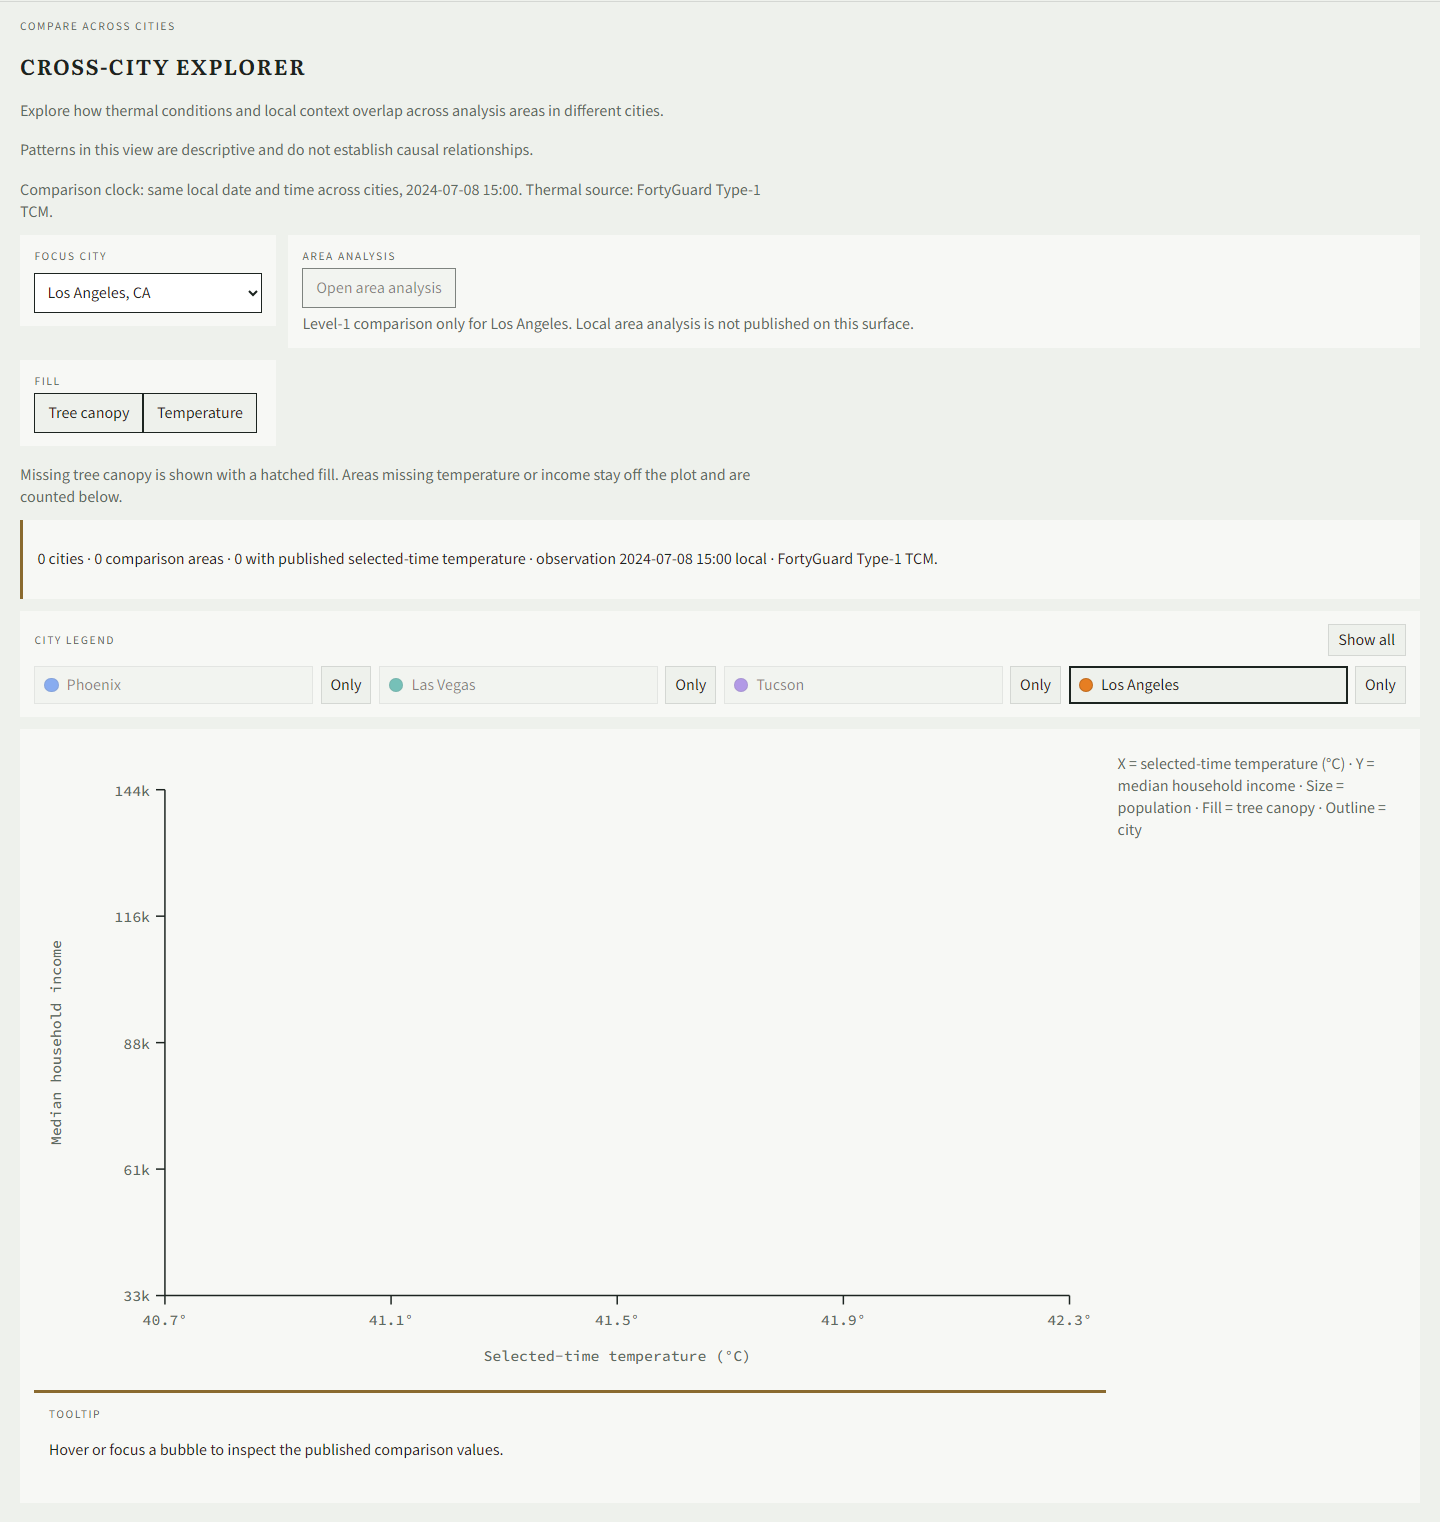
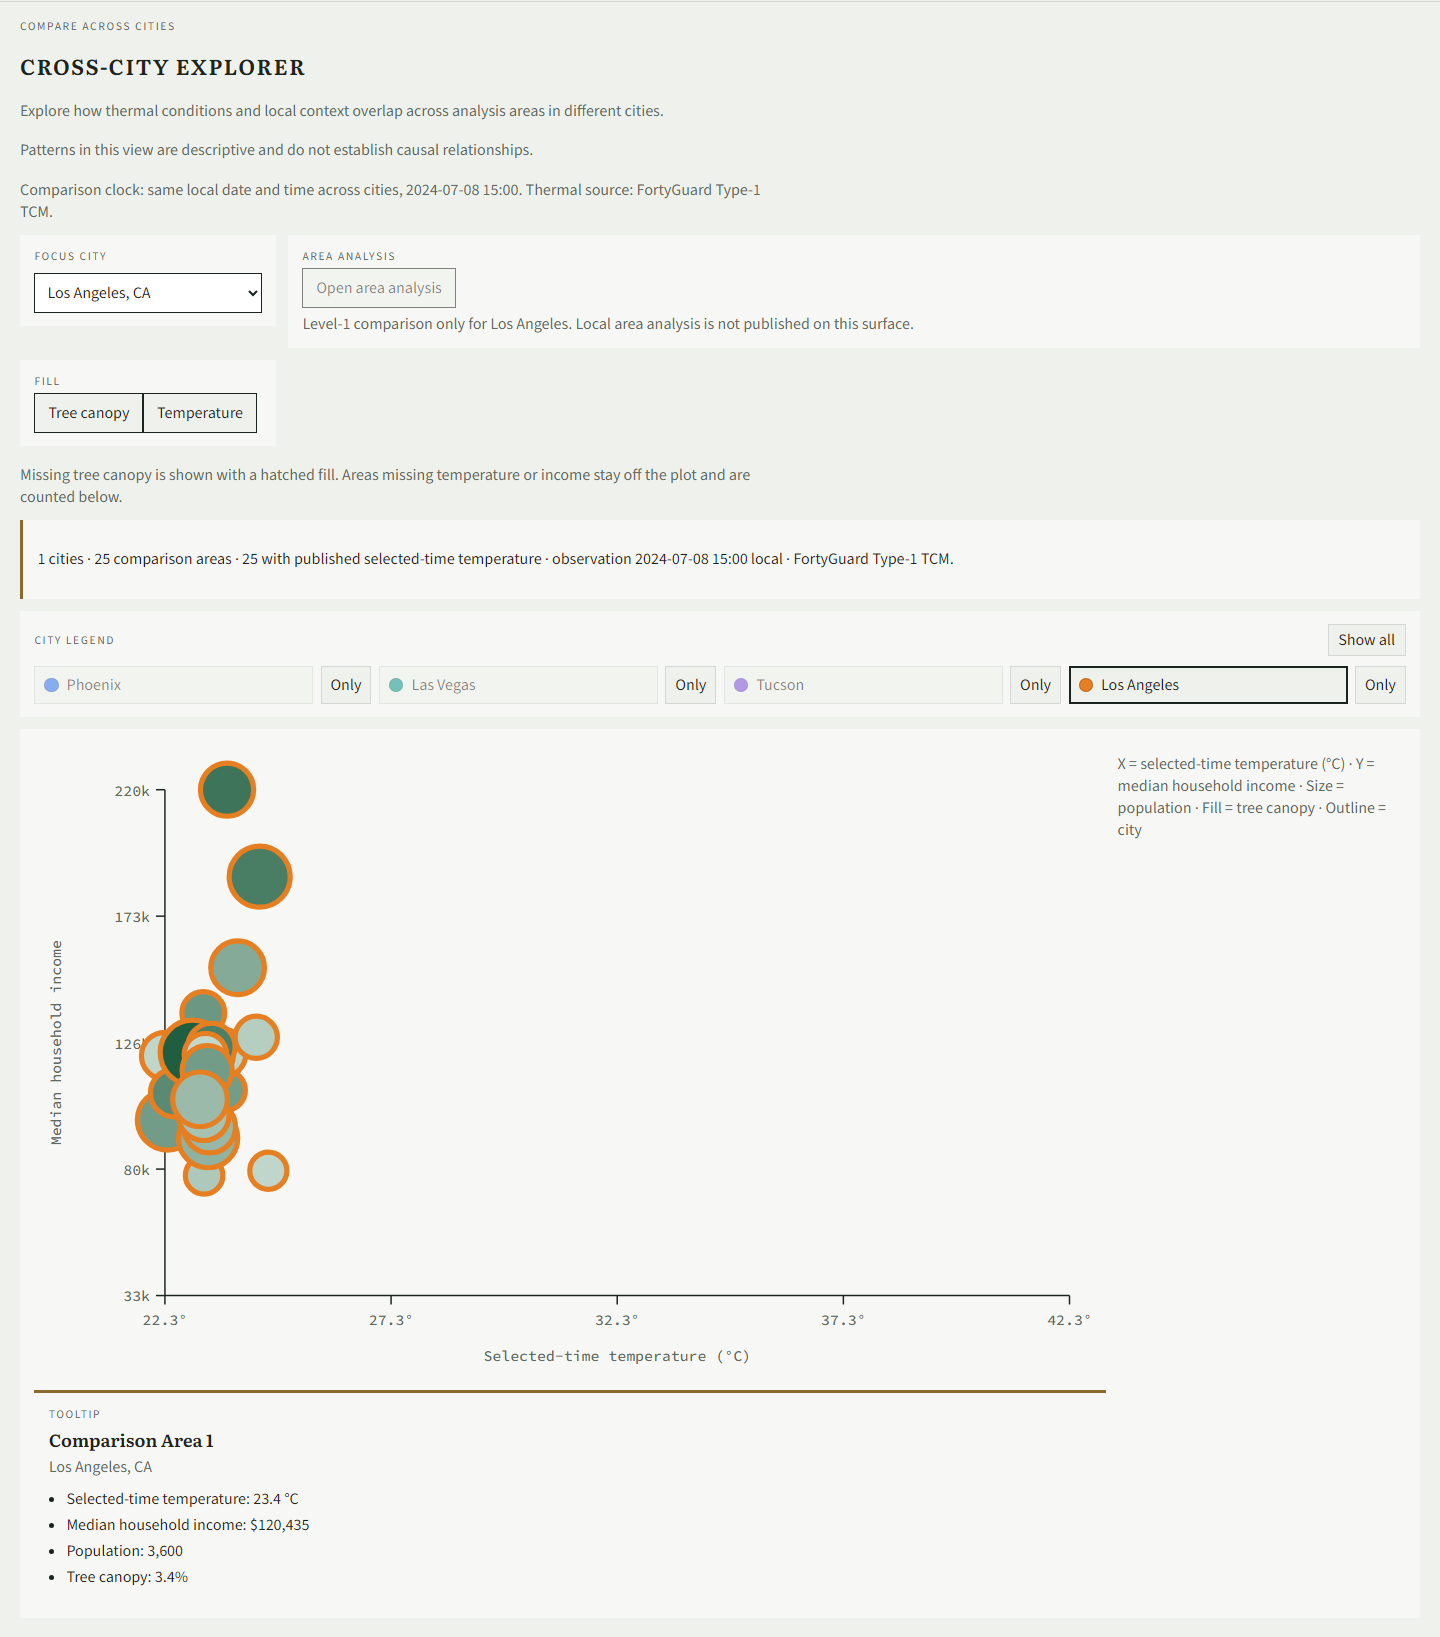
Fix Los Angeles city_id normalization in Cross-City Explorer.
Map API los_angeles underscores into the allowlist and refresh real screenshots so all four cities appear on the default plot.

diff --git a/apps/web/src/features/crossCity/fetchMetrics.test.ts b/apps/web/src/features/crossCity/fetchMetrics.test.ts
@@ -70,4 +70,23 @@ describe("cross-city metrics client", () => {
     expect(payload.areas[0]?.cityId).toBe("tucson-az");
     expect(payload.areas[0]?.metrics.treeCanopyPct).toBeNull();
   });
+
+  it("accepts API city_id los_angeles with underscore", () => {
+    const payload = normalizeCrossCityMetrics({
+      rows: [
+        {
+          city_id: "los_angeles",
+          zone_id: "06037271803",
+          label: "Comparison Area 1",
+          temperature_c: 23.4,
+          median_household_income: 90000,
+          population: 3000,
+          tree_canopy_pct: 5.2,
+        },
+      ],
+    });
+    expect(payload.areas).toHaveLength(1);
+    expect(payload.areas[0]?.cityId).toBe("los-angeles-ca");
+    expect(payload.areas[0]?.metrics.selectedTimeTemperatureC).toBe(23.4);
+  });
 });

diff --git a/apps/web/src/features/crossCity/fetchMetrics.ts b/apps/web/src/features/crossCity/fetchMetrics.ts
@@ -44,7 +44,7 @@ function toNumber(value: unknown): number | null {
 }
 
 function normalizeCityId(value: string | null | undefined): CrossCityId | null {
-  const raw = (value ?? "").trim().toLowerCase();
+  const raw = (value ?? "").trim().toLowerCase().replace(/_/g, " ");
   if (!raw) {
     return null;
   }
@@ -57,7 +57,12 @@ function normalizeCityId(value: string | null | undefined): CrossCityId | null {
   if (raw.includes("tucson")) {
     return "tucson-az";
   }
-  if (raw.includes("losangeles") || raw.includes("los-angeles") || raw.includes("los angeles")) {
+  if (
+    raw.includes("los angeles") ||
+    raw.includes("los-angeles") ||
+    raw.replace(/\s+/g, "") === "losangeles" ||
+    raw === "la"
+  ) {
     return "los-angeles-ca";
   }
   return null;
